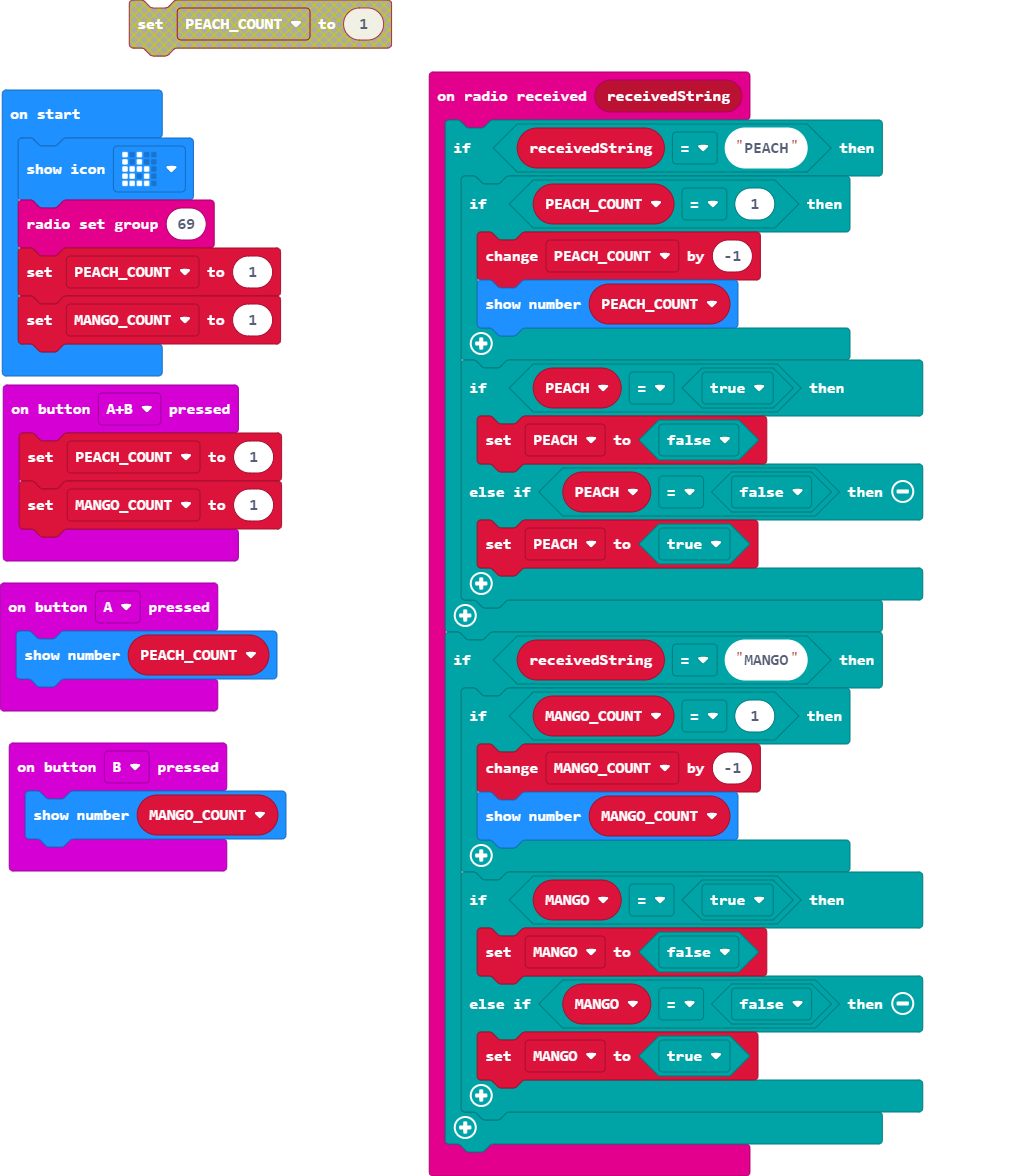
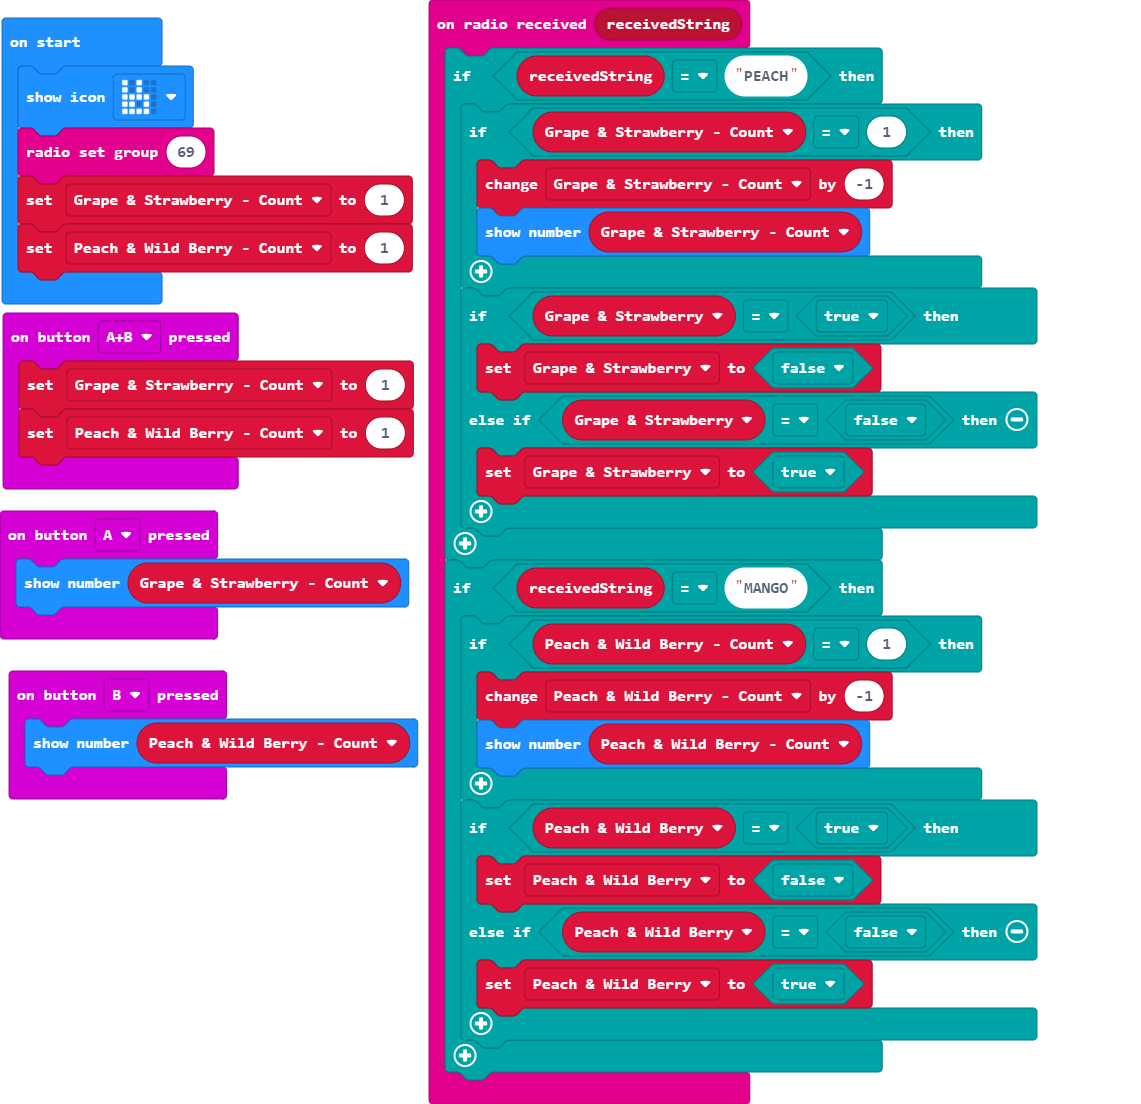
Update main.blocks, main.ts

diff --git a/main.ts b/main.ts
@@ -1,42 +1,42 @@
 input.onButtonPressed(Button.A, function () {
-    basic.showNumber(PEACH_COUNT)
+    basic.showNumber(Grape__Strawberry__Count)
 })
 input.onButtonPressed(Button.AB, function () {
-    PEACH_COUNT = 1
-    MANGO_COUNT = 1
+    Grape__Strawberry__Count = 1
+    Peach__Wild_Berry__Count = 1
 })
 radio.onReceivedString(function (receivedString) {
     if (receivedString == "PEACH") {
-        if (PEACH_COUNT == 1) {
-            PEACH_COUNT += -1
-            basic.showNumber(PEACH_COUNT)
+        if (Grape__Strawberry__Count == 1) {
+            Grape__Strawberry__Count += -1
+            basic.showNumber(Grape__Strawberry__Count)
         }
-        if (PEACH == true) {
-            PEACH = false
-        } else if (PEACH == false) {
-            PEACH = true
+        if (Grape__Strawberry == true) {
+            Grape__Strawberry = false
+        } else if (Grape__Strawberry == false) {
+            Grape__Strawberry = true
         }
     }
     if (receivedString == "MANGO") {
-        if (MANGO_COUNT == 1) {
-            MANGO_COUNT += -1
-            basic.showNumber(MANGO_COUNT)
+        if (Peach__Wild_Berry__Count == 1) {
+            Peach__Wild_Berry__Count += -1
+            basic.showNumber(Peach__Wild_Berry__Count)
         }
-        if (MANGO == true) {
-            MANGO = false
-        } else if (MANGO == false) {
-            MANGO = true
+        if (Peach__Wild_Berry == true) {
+            Peach__Wild_Berry = false
+        } else if (Peach__Wild_Berry == false) {
+            Peach__Wild_Berry = true
         }
     }
 })
 input.onButtonPressed(Button.B, function () {
-    basic.showNumber(MANGO_COUNT)
+    basic.showNumber(Peach__Wild_Berry__Count)
 })
-let MANGO = false
-let PEACH = false
-let MANGO_COUNT = 0
-let PEACH_COUNT = 0
+let Peach__Wild_Berry = false
+let Grape__Strawberry = false
+let Peach__Wild_Berry__Count = 0
+let Grape__Strawberry__Count = 0
 basic.showIcon(IconNames.Rabbit)
 radio.setGroup(69)
-PEACH_COUNT = 1
-MANGO_COUNT = 1
+Grape__Strawberry__Count = 1
+Peach__Wild_Berry__Count = 1
